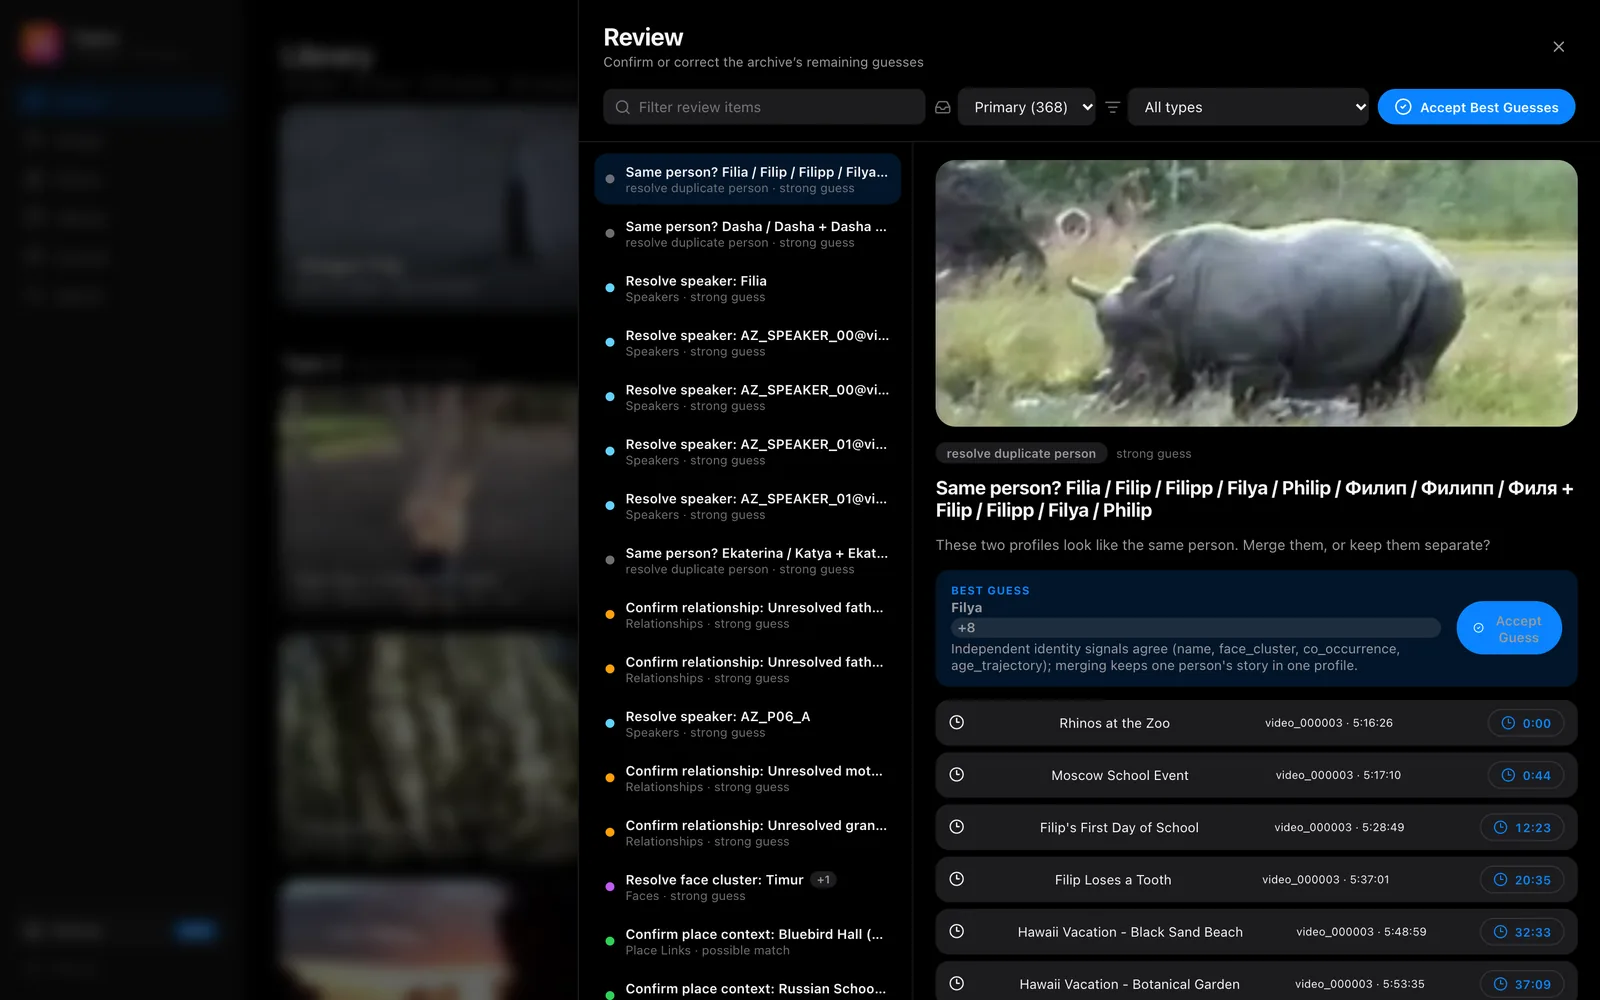
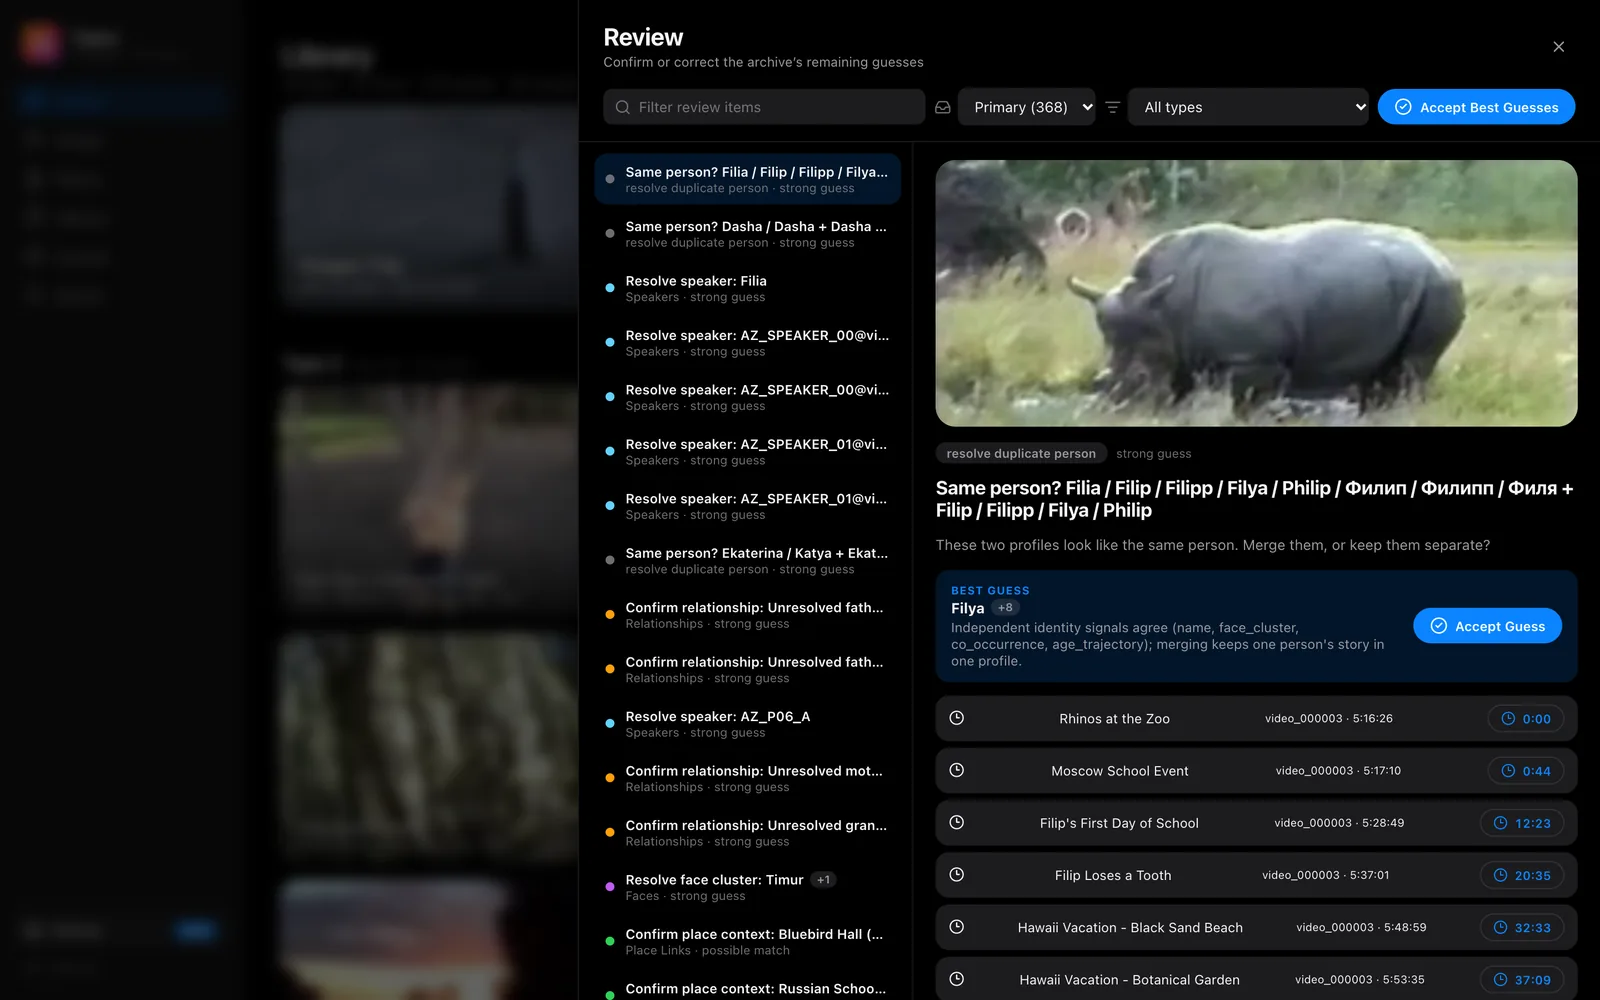
Fix the faded Accept Guess button in the review drawer
.suggested-resolution span matched every descendant span, so the button's
own label turned grey on the blue fill and wrapped, and the +N alias badge
became a full-width bar. Child selectors keep those rules on the text
column. Review screenshots updated.

Changed region(s): [[0.5938, 0.589, 1.0, 0.992]]

diff --git a/apps/review-ui/src/styles.css b/apps/review-ui/src/styles.css
@@ -1241,7 +1241,13 @@ p {
   padding: 12px 14px;
 }
 
-.suggested-resolution small {
+.suggested-resolution > div {
+  min-width: 0;
+}
+
+/* Child selectors: a descendant `span` rule would also restyle the Accept
+   button's label and the alias badge inside the best-guess name. */
+.suggested-resolution > div > small {
   display: block;
   text-transform: uppercase;
   letter-spacing: 0.6px;
@@ -1251,15 +1257,19 @@ p {
   margin-bottom: 2px;
 }
 
-.suggested-resolution strong {
+.suggested-resolution > div > strong {
   font-size: var(--fs-body);
 }
 
-.suggested-resolution span {
+.suggested-resolution > div > span {
   display: block;
   color: var(--text-2);
   font-size: var(--fs-callout);
   margin-top: 2px;
+}
+
+.suggested-resolution .command-button {
+  flex: none;
 }
 
 .relation-preview {
